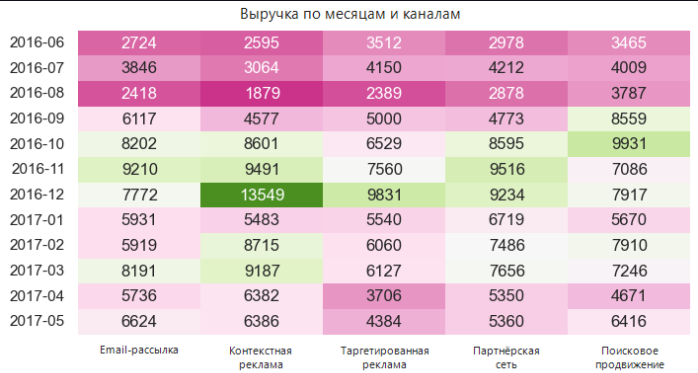
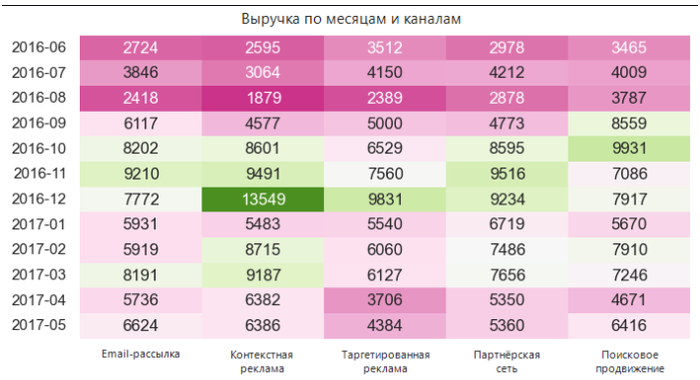
Tighten chart margins to 700x380 fill; match LTV title sizes.

diff --git a/marketplace_sales/make_charts.py b/marketplace_sales/make_charts.py
@@ -1,16 +1,19 @@
-"""Generate marketplace chart PNGs at 700x380 — light grey seaborn style, one chart each."""
+"""Generate marketplace chart PNGs at 700x380 — tight fill like other cases."""
+from io import BytesIO
 from pathlib import Path
 
 import matplotlib.pyplot as plt
 import matplotlib.ticker as mticker
 import numpy as np
 import seaborn as sns
+from PIL import Image
 
 OUT = Path(__file__).resolve().parent / "images"
 DPI = 100
-FIGSIZE = (7.0, 3.8)  # 700x380 px at 100 dpi
+FIGSIZE = (7.0, 3.8)
+TARGET = (700, 380)
+PAD = 2
 
-# Same axes grey as other cases (seaborn whitegrid / sporting_store ab_arpu)
 AXES_BG = "#EAEAF2"
 FIG_BG = "white"
 BLUE = "#4C78A8"
@@ -46,6 +49,35 @@ def fmt_money(x, _pos=None):
     return f"{x:,.0f}"
 
 
+def fit_canvas(im: Image.Image, size=TARGET, pad=PAD, bg=(255, 255, 255)) -> Image.Image:
+    """Crop near-white margins, scale up to fill canvas, keep exact size."""
+    arr = np.asarray(im.convert("RGB"))
+    mask = (arr < 250).any(axis=2)
+    ys, xs = np.where(mask)
+    if len(xs) == 0:
+        return im.resize(size, Image.Resampling.LANCZOS)
+    cropped = im.crop((xs.min(), ys.min(), xs.max() + 1, ys.max() + 1))
+    tw, th = size[0] - 2 * pad, size[1] - 2 * pad
+    cw, ch = cropped.size
+    scale = min(tw / cw, th / ch)
+    nw, nh = max(1, int(round(cw * scale))), max(1, int(round(ch * scale)))
+    resized = cropped.resize((nw, nh), Image.Resampling.LANCZOS)
+    canvas = Image.new("RGB", size, bg)
+    canvas.paste(resized, ((size[0] - nw) // 2, (size[1] - nh) // 2))
+    return canvas
+
+
+def save_chart(fig, path: Path):
+    buf = BytesIO()
+    # Tight margins so content fills the figure (like avg_cheque / ab_arpu)
+    fig.subplots_adjust(left=0.09, right=0.995, top=0.88, bottom=0.16)
+    fig.savefig(buf, format="png", dpi=DPI, facecolor=FIG_BG)
+    plt.close(fig)
+    buf.seek(0)
+    im = Image.open(buf)
+    fit_canvas(im).save(path)
+
+
 def sales_dynamics():
     months = [
         "апр '19",
@@ -77,15 +109,13 @@ def sales_dynamics():
     ax.set_facecolor(AXES_BG)
     ax.plot(months, values, marker="o", color=BLUE, linewidth=2.2, markersize=5.5)
     ax.fill_between(months, values, alpha=0.15, color=BLUE)
-    ax.set_title("Динамика продаж")
+    ax.set_title("Динамика продаж", fontsize=12, pad=8)
     ax.set_ylabel("Выручка")
     ax.yaxis.set_major_formatter(mticker.FuncFormatter(fmt_money))
     ax.set_ylim(0, 1.45e9)
     ax.tick_params(axis="x", rotation=25)
     ax.set_axisbelow(True)
-    fig.subplots_adjust(left=0.12, right=0.98, top=0.88, bottom=0.22)
-    fig.savefig(OUT / "sales_dynamics.png", facecolor=FIG_BG)
-    plt.close(fig)
+    save_chart(fig, OUT / "sales_dynamics.png")
 
 
 def category_managers():
@@ -103,12 +133,10 @@ def category_managers():
     ax.set_xticks(x)
     ax.set_xticklabels(quarters)
     ax.set_ylabel("млн ₽")
-    ax.set_title("Факт и план по кварталам")
+    ax.set_title("Факт и план по кварталам", fontsize=12, pad=8)
     ax.legend(fontsize=9, loc="upper left")
     ax.set_axisbelow(True)
-    fig.subplots_adjust(left=0.12, right=0.98, top=0.88, bottom=0.16)
-    fig.savefig(OUT / "plan_vs_fact.png", facecolor=FIG_BG)
-    plt.close(fig)
+    save_chart(fig, OUT / "plan_vs_fact.png")
 
 
 def main():
@@ -116,18 +144,13 @@ def main():
     OUT.mkdir(parents=True, exist_ok=True)
     sales_dynamics()
     category_managers()
-    from PIL import Image
-
     for name in ("sales_dynamics.png", "plan_vs_fact.png"):
-        path = OUT / name
-        im = Image.open(path)
-        print(name, im.size)
-        if im.size != (700, 380):
-            im = im.resize((700, 380), Image.Resampling.LANCZOS)
-            im.save(path)
-            print("  resized ->", im.size)
-        px = im.getpixel((200, 80))
-        print("  sample", px)
+        im = Image.open(OUT / name)
+        arr = np.asarray(im)
+        mask = (arr < 250).any(axis=2)
+        ys, xs = np.where(mask)
+        pads = (xs.min(), ys.min(), im.size[0] - xs.max() - 1, im.size[1] - ys.max() - 1)
+        print(name, im.size, "pads LTRB", pads)
 
 
 if __name__ == "__main__":

diff --git a/fintech_ltv/normalize_charts.py b/fintech_ltv/normalize_charts.py
@@ -1,0 +1,94 @@
+"""Fit LTV charts to 700x380 and match title size on cumulative_ltv to heatmap."""
+from pathlib import Path
+
+import numpy as np
+from PIL import Image, ImageDraw, ImageFont
+
+ROOT = Path(__file__).resolve().parent / "images"
+TARGET = (700, 380)
+PAD = 2
+BG = (255, 255, 255)
+
+
+def content_box(im: Image.Image, thr=250):
+    arr = np.asarray(im.convert("RGB"))
+    mask = (arr < thr).any(axis=2)
+    ys, xs = np.where(mask)
+    return int(xs.min()), int(ys.min()), int(xs.max() + 1), int(ys.max() + 1)
+
+
+def fit_canvas(im: Image.Image, size=TARGET, pad=PAD, bg=BG) -> Image.Image:
+    box = content_box(im)
+    cropped = im.crop(box).convert("RGB")
+    tw, th = size[0] - 2 * pad, size[1] - 2 * pad
+    cw, ch = cropped.size
+    scale = min(tw / cw, th / ch)
+    nw, nh = max(1, int(round(cw * scale))), max(1, int(round(ch * scale)))
+    resized = cropped.resize((nw, nh), Image.Resampling.LANCZOS)
+    canvas = Image.new("RGB", size, bg)
+    canvas.paste(resized, ((size[0] - nw) // 2, (size[1] - nh) // 2))
+    return canvas
+
+
+def load_font(size: int) -> ImageFont.ImageFont:
+    for name in (
+        "C:/Windows/Fonts/arial.ttf",
+        "C:/Windows/Fonts/segoeui.ttf",
+        "C:/Windows/Fonts/calibri.ttf",
+    ):
+        try:
+            return ImageFont.truetype(name, size)
+        except OSError:
+            continue
+    return ImageFont.load_default()
+
+
+def title_ink_height(im: Image.Image, max_y=50) -> int:
+    arr = np.asarray(im.convert("RGB"))
+    dark = (arr < 60).any(axis=2)
+    rows = np.where(dark.any(axis=1) & (np.arange(arr.shape[0]) < max_y))[0]
+    if len(rows) == 0:
+        return 0
+    return int(rows.max() - rows.min() + 1)
+
+
+def replace_title(im: Image.Image, text: str, font_size: int, band=36) -> Image.Image:
+    out = im.convert("RGB").copy()
+    w, _ = out.size
+    draw = ImageDraw.Draw(out)
+    # Sample background from a title-side pixel (usually white)
+    draw.rectangle([0, 0, w, band], fill=BG)
+    font = load_font(font_size)
+    bbox = draw.textbbox((0, 0), text, font=font)
+    tw, th = bbox[2] - bbox[0], bbox[3] - bbox[1]
+    x = (w - tw) // 2
+    y = max(2, (band - th) // 2 - 1)
+    draw.text((x, y), text, fill=(0, 0, 0), font=font)
+    return out
+
+
+def main():
+    heatmap_path = ROOT / "source_revenue_heatmap.png"
+    ltv_path = ROOT / "cumulative_ltv.png"
+
+    # Heatmap: only normalize canvas size (keep existing title)
+    hm = fit_canvas(Image.open(heatmap_path))
+    hm.save(heatmap_path)
+
+    # Cumulative: normalize + redraw title to match heatmap weight
+    ref_h = title_ink_height(hm)
+    # Heatmap title ink ≈ 12–16px after fit; use 15pt for parity
+    font_size = 15
+    ltv = fit_canvas(Image.open(ltv_path))
+    ltv = replace_title(ltv, "Накопительный LTV по когортам", font_size)
+    ltv.save(ltv_path)
+
+    for p in (heatmap_path, ltv_path, ROOT / "avg_cheque.png"):
+        im = Image.open(p)
+        box = content_box(im)
+        pads = (box[0], box[1], im.size[0] - box[2], im.size[1] - box[3])
+        print(p.name, im.size, "pads", pads, "title_h", title_ink_height(im), "ref", ref_h)
+
+
+if __name__ == "__main__":
+    main()
